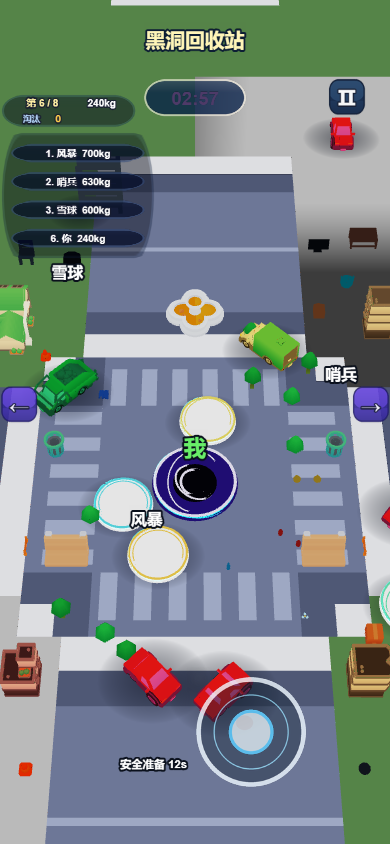
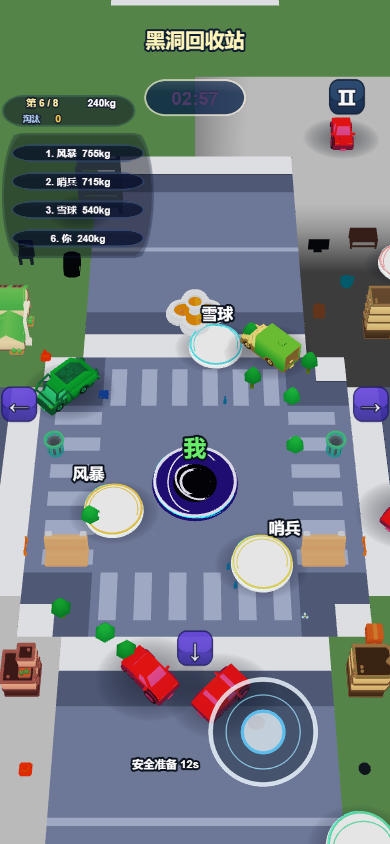
revert(arena): tightening the camera made it measurably worse, so it is not kept
Second PHASE B attempt. With the spawn ring now at 14 and off-screen rivals
showing direction arrows, the objection to tightening the arena camera no longer
held on paper, so it was tried: offset (0,44,27) to (0,36,22), 51.6 m to 42.2 m,
everything on the field about 22 percent larger.

It failed the measurement in both directions:

  flat-road share, 375x667 / 390x844 / 430x932:
    23.7 / 28.1 / 27.8  ->  30.7 / 30.7 / 31.5
  rivals on screen: 7 spread across the field -> 2, the other 5 arrowed off

The reasoning error was mine: I assumed a closer camera would spend less frame on
empty road. It does the opposite. Zooming in aims the camera at the empty near
field and pushes the authored props -- square, fountain, flowerbeds at plus or
minus 9 to 14 -- off the edges, so the flat share rises, and five of seven
opponents leave the frame at the same time.

Reverted, with the experiment and its numbers recorded in place of the code, so
the next attempt does not repeat it. Kept from this round: the spawn spread, which
is the change that actually improved the opening composition. Captures for all
three states are under artifacts/qa/v12/ (arena-before, arena-spread, arena).

diff --git a/cocos/assets/scripts/core/RenderProfile.ts b/cocos/assets/scripts/core/RenderProfile.ts
@@ -295,6 +295,21 @@ export const CAMERA_PROFILE = {
       new Vec3(0, 63.0, 58.3),   // LV5: distance 85.8m (2.95x) -> playerWidthRatio ~0.42
     ],
   },
+  // V12 PHASE B: tightening this was tried and MEASURED, then reverted.
+  //
+  // (0, 36, 22) -- 42.2 m, everything about 22% larger -- looked like the obvious
+  // fix for props that were too small to read and a play view that was 27% one
+  // flat road colour. It failed on the measurement, in both directions:
+  //
+  //   flat-road share, three sizes: 23.7/28.1/27.8 -> 30.7/30.7/31.5
+  //   rivals on screen: 7 spread across the field -> 2, the other 5 arrowed off
+  //
+  // Zooming in aims the camera at the empty near field and pushes the authored
+  // props (square, fountain, flowerbeds at plus or minus 9 to 14) off the edges,
+  // so the flat share goes UP, not down; and five of seven opponents leave the
+  // frame. It trades both the composition and the P0 requirement of seeing the
+  // opponents for larger props. So the distance stays, and PHASE B's lever is the
+  // field's content and scale, not the camera.
   arena: { offset: new Vec3(0, 44.0, 27.0), pitchDegrees: -55 },
 } as const;
 
